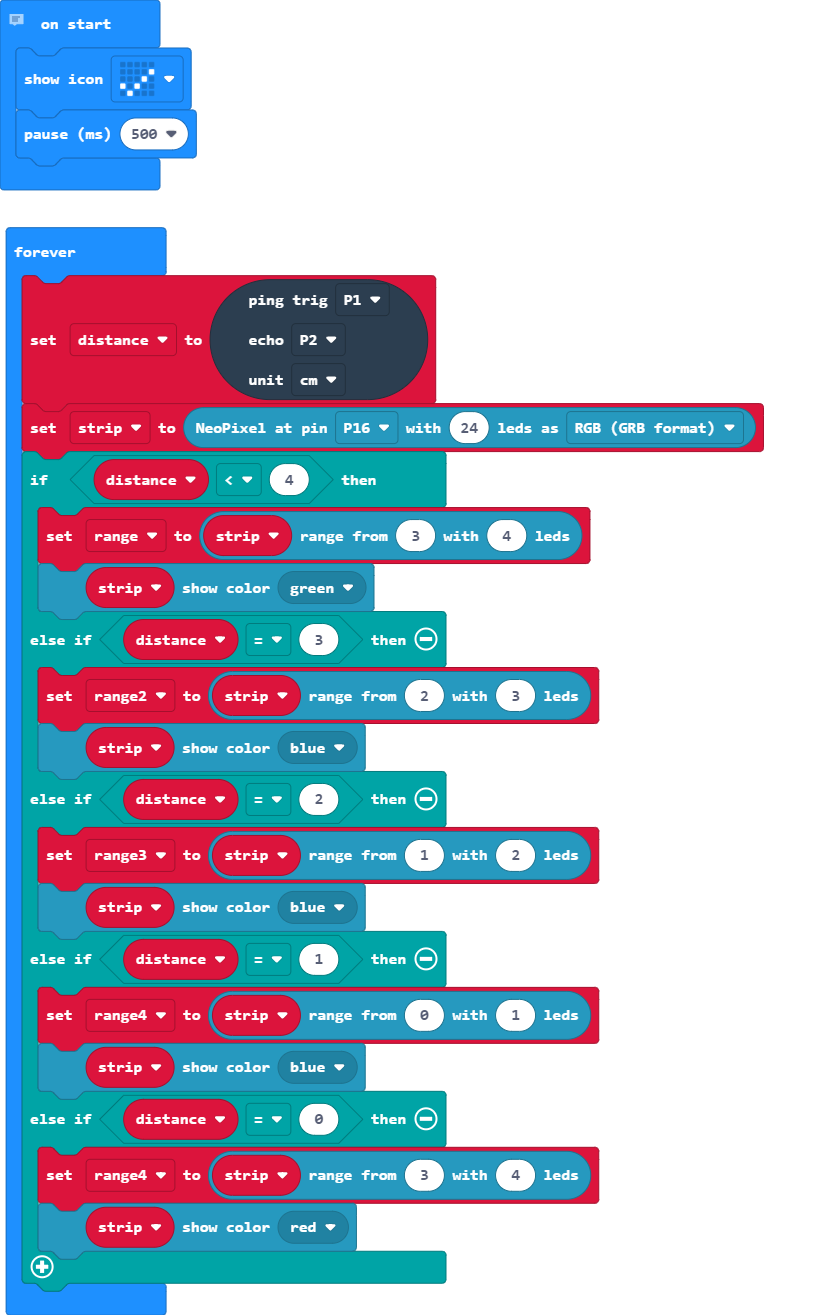
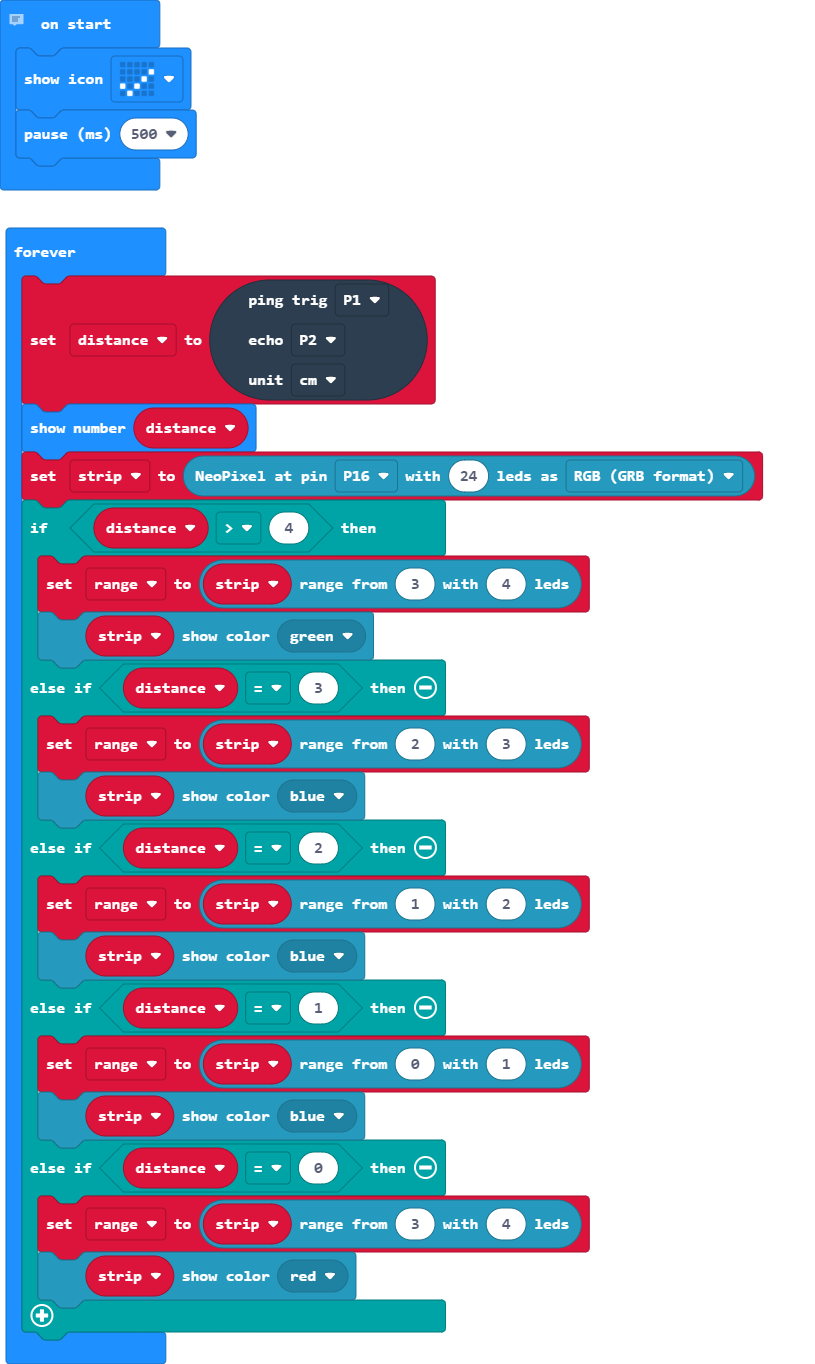
added code

Changed region(s): [[0.0, 0.0312, 0.9509, 0.9977]]

diff --git a/main.ts b/main.ts
@@ -2,9 +2,6 @@
 // Created on: Oct. 2020
 // 
 // This program uses a sonar to light up neopixels
-let range4: neopixel.Strip = null
-let range3: neopixel.Strip = null
-let range2: neopixel.Strip = null
 let range: neopixel.Strip = null
 let strip: neopixel.Strip = null
 let distance = 0
@@ -16,21 +13,22 @@ basic.forever(function () {
     DigitalPin.P2,
     PingUnit.Centimeters
     )
+    basic.showNumber(distance)
     strip = neopixel.create(DigitalPin.P16, 24, NeoPixelMode.RGB)
-    if (distance < 4) {
+    if (distance > 4) {
         range = strip.range(3, 4)
         strip.showColor(neopixel.colors(NeoPixelColors.Green))
     } else if (distance == 3) {
-        range2 = strip.range(2, 3)
+        range = strip.range(2, 3)
         strip.showColor(neopixel.colors(NeoPixelColors.Blue))
     } else if (distance == 2) {
-        range3 = strip.range(1, 2)
+        range = strip.range(1, 2)
         strip.showColor(neopixel.colors(NeoPixelColors.Blue))
     } else if (distance == 1) {
-        range4 = strip.range(0, 1)
+        range = strip.range(0, 1)
         strip.showColor(neopixel.colors(NeoPixelColors.Blue))
     } else if (distance == 0) {
-        range4 = strip.range(3, 4)
+        range = strip.range(3, 4)
         strip.showColor(neopixel.colors(NeoPixelColors.Red))
     }
 })
